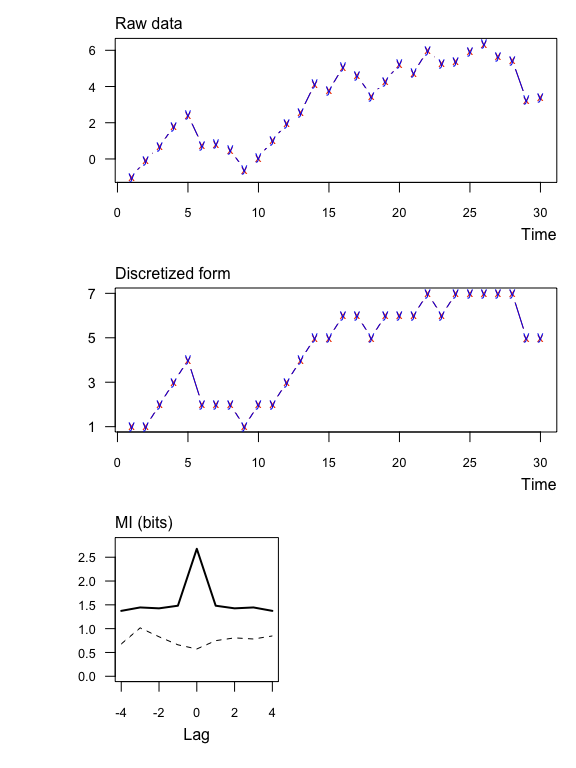
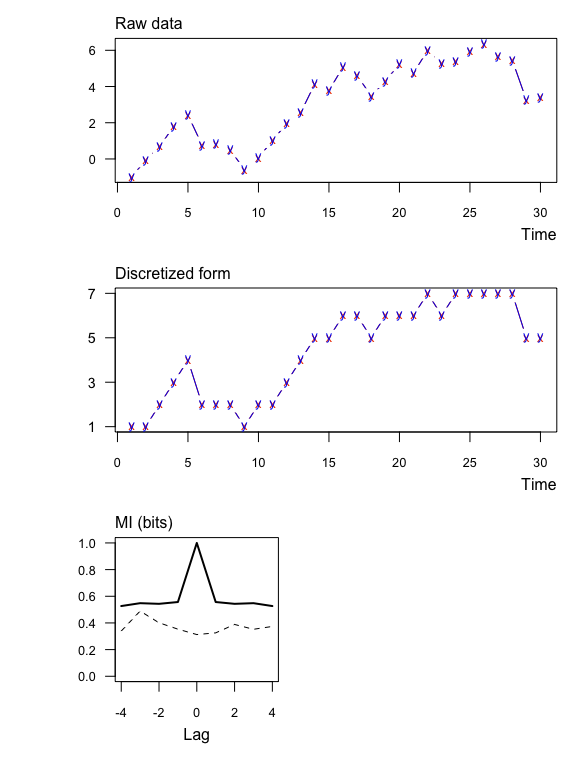
fixed examples

Changed region(s): [[0.125, 0.7188, 0.3125, 0.875], [0.3125, 0.7188, 0.375, 0.7812], [0.375, 0.7812, 0.4688, 0.8125]]

diff --git a/README.md b/README.md
@@ -104,7 +104,7 @@ muti(x2, y2)
 Same as Ex 1 with MI normalized to \[0,1\]. In this case MI'(*X*,*Y*) = MI(*X*,*Y*)/sqrt(*H*(*X*)\**H*(*Y*)).
 
 ``` r
-muti(x1, y1, normal=TRUE)
+muti(x1, y1, normal = TRUE)
 ```
 
 ![](README_files/figure-markdown_github/ex_3-1.png)
@@ -125,7 +125,7 @@ muti(x1, y1, normal=TRUE)
 Same as Ex 1 with regular binning instead of symbolic.
 
 ``` r
-muti(x1, y1, sym=FALSE)
+muti(x1, y1, sym = FALSE)
 ```
 
 ![](README_files/figure-markdown_github/ex_4-1.png)
@@ -147,18 +147,18 @@ Here's an example of examining the normalized MI of a single time series at vari
 
 ``` r
 x3 <- cumsum(rnorm(TT))
-muti(x3, x3, sym=FALSE)
+muti(x3, x3, sym = FALSE, normal = TRUE)
 ```
 
 ![](README_files/figure-markdown_github/ex_5-1.png)
 
-    ##       lag    MI_xy     MI_tv
-    ##  [1,]  -4 1.373382 0.6785124
-    ##  [2,]  -3 1.445323 1.0154965
-    ##  [3,]  -2 1.426345 0.8297028
-    ##  [4,]  -1 1.481657 0.6605550
-    ##  [5,]   0 2.677095 0.5731660
-    ##  [6,]   1 1.481657 0.7478677
-    ##  [7,]   2 1.426345 0.8063092
-    ##  [8,]   3 1.445323 0.7827691
-    ##  [9,]   4 1.373382 0.8463104
+    ##       lag     MI_xy     MI_tv
+    ##  [1,]  -4 0.5266503 0.3390241
+    ##  [2,]  -3 0.5481989 0.4890853
+    ##  [3,]  -2 0.5432998 0.4011222
+    ##  [4,]  -1 0.5568068 0.3533874
+    ##  [5,]   0 1.0000000 0.3128431
+    ##  [6,]   1 0.5568068 0.3255915
+    ##  [7,]   2 0.5432998 0.3886253
+    ##  [8,]   3 0.5481989 0.3524389
+    ##  [9,]   4 0.5266503 0.3736470
